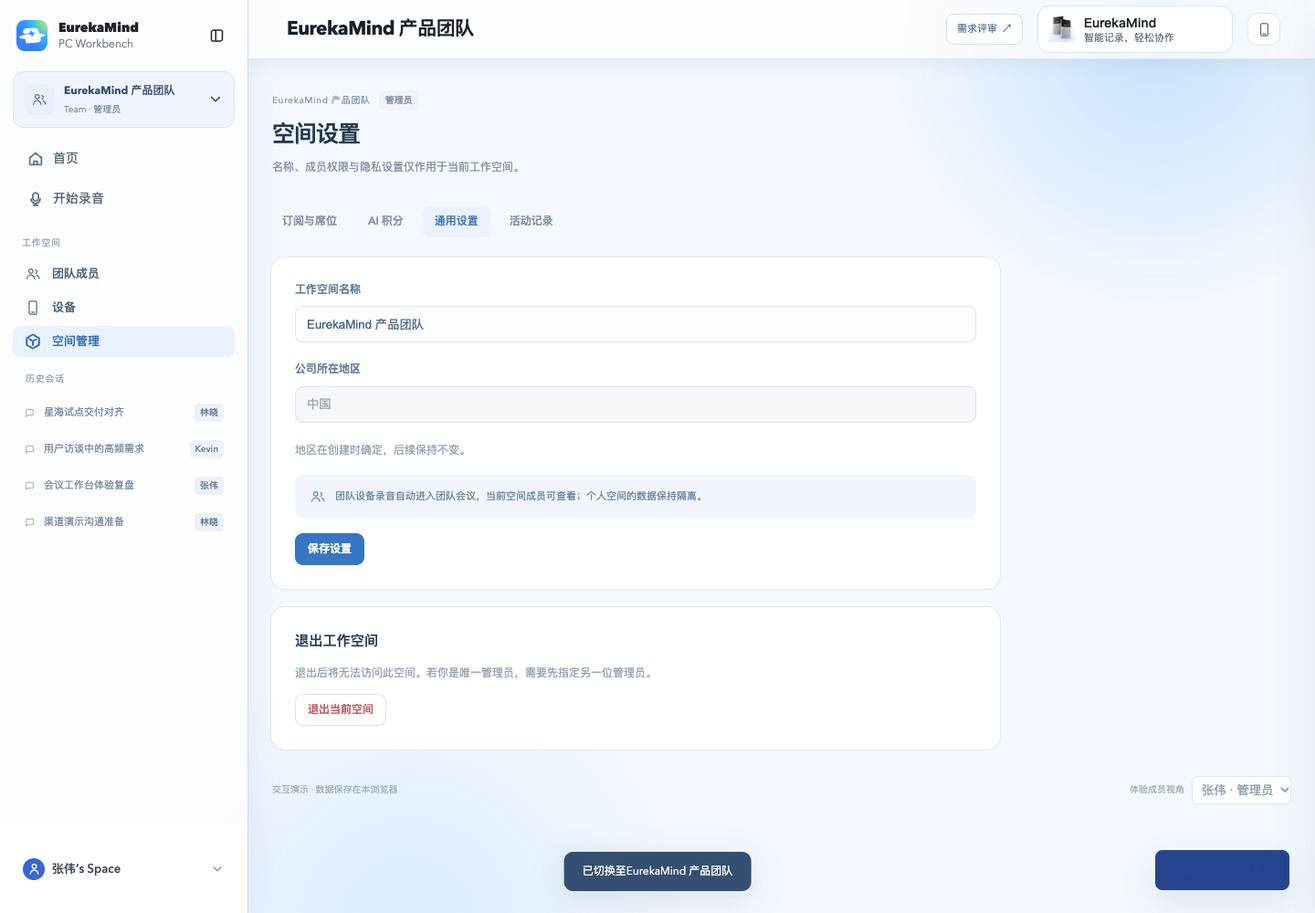
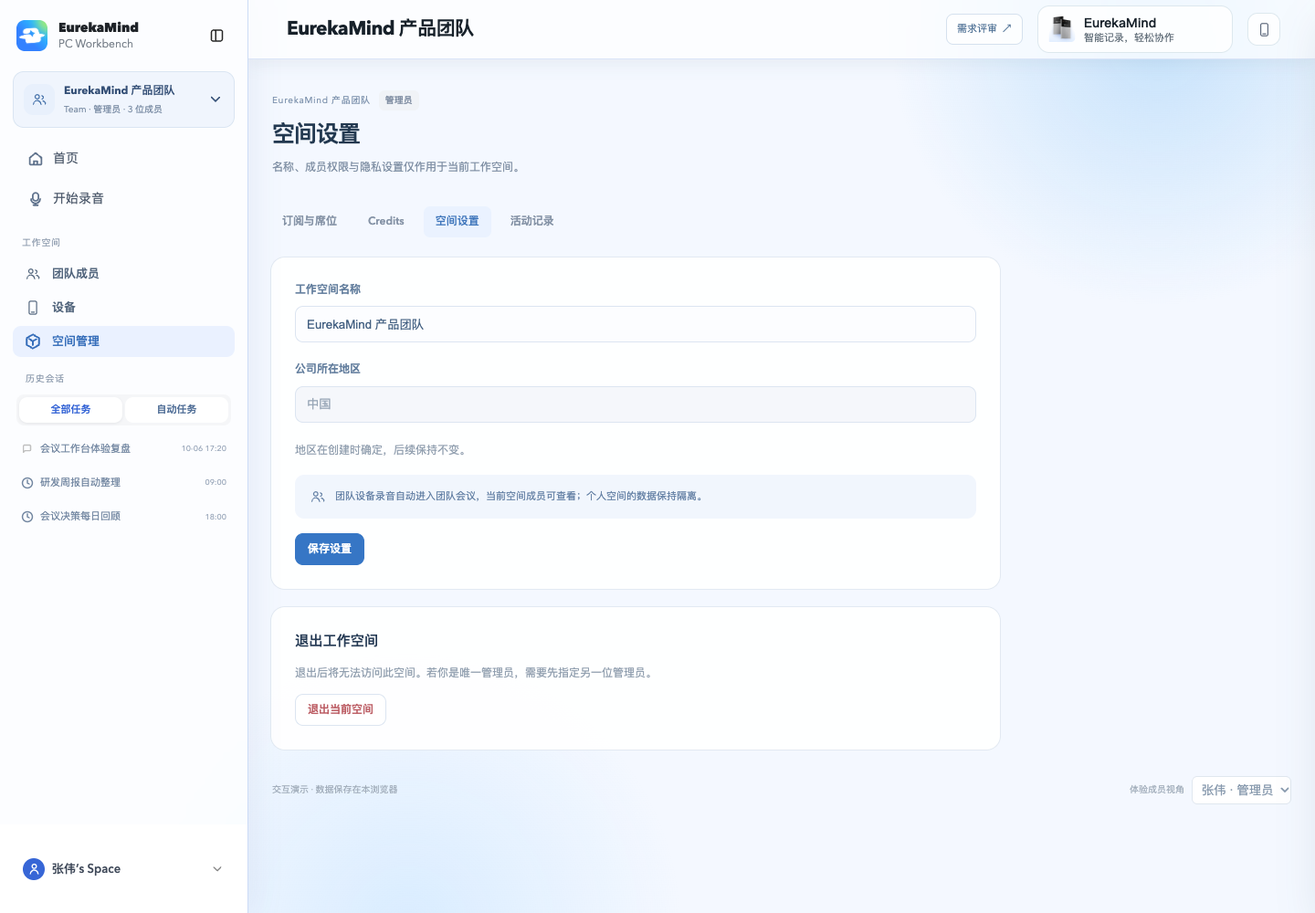
Unify compact personal settings across workspaces

diff --git a/src/prototype/one-to-one-reference/assets/personal-assets.css b/src/prototype/one-to-one-reference/assets/personal-assets.css
@@ -27,7 +27,41 @@ body[data-ws-type="team"] #todos-entry{display:none!important}
 [data-pa-error]{color:#b44c53;background:#fff4f4;border-radius:8px;padding:12px;font-size:13px;line-height:1.7}[data-pa-error][hidden]{display:none}
 .pa-dialog{width:min(650px,calc(100vw - 40px));max-height:85vh;box-sizing:border-box;border:1px solid #dce6f3;border-radius:22px;padding:28px;color:#3e5d7e;box-shadow:0 20px 80px #314b6b30}.pa-dialog::backdrop{background:#1d355442;backdrop-filter:blur(3px)}.pa-dialog header{display:flex;justify-content:space-between;align-items:center;margin-bottom:24px}.pa-dialog h2{font-size:21px;margin:0}.pa-dialog p{line-height:1.8;font-size:14px}.pa-dialog footer{display:flex;justify-content:flex-end;gap:10px;margin-top:26px}.pa-meeting-choices{max-height:48vh;overflow:auto}.pa-meeting-choice{display:flex;align-items:flex-start;gap:12px;padding:16px 0;border-top:1px solid #edf1f7;cursor:pointer}.pa-meeting-choice input{margin-top:4px;accent-color:#387aca}.pa-meeting-choice small{display:block;margin-top:7px;color:#98a7bb;font-size:12px}.pa-meeting-choice summary{color:#6591c5;font-size:12px;margin-top:10px;cursor:pointer}.pa-meeting-choice strong{font-size:14px}
 .pa-archive-wrap #recording-card{min-width:0;width:100%;margin:0}.pa-archive-wrap.pa-with-agent,.pa-workspace.pa-with-agent{display:flex;gap:20px;align-items:flex-start}.pa-archive-wrap.pa-with-agent #recording-card{flex:1;width:0}.pa-agent{flex:0 0 380px;width:380px;min-width:0;border:1px solid #dce6f3;border-radius:20px;background:#fff;position:sticky;top:18px;height:calc(100vh - 155px);display:flex;flex-direction:column;overflow:hidden}.pa-agent header{padding:22px;display:flex;justify-content:space-between;align-items:center;border-bottom:1px solid #e5edf7}.pa-agent h2{font-size:21px;margin:0 0 5px;color:#294459}.pa-agent header small{color:#889ab0;font-size:12px}.pa-agent header .pa-btn{padding:4px 8px;border:0;font-size:23px}.pa-agent-body{flex:1;overflow:auto;padding:22px}.pa-agent-body h3{font-size:18px;line-height:1.5;color:#385673}.pa-agent-body p{font-size:13px;line-height:1.8;color:#8498b1}.pa-agent-body .pa-btn{white-space:normal;text-align:left}.pa-message{background:#edf4ff;border-radius:12px;padding:16px;margin:16px 0;font-size:13px;color:#627f9e;line-height:1.8;white-space:pre-wrap;overflow-wrap:anywhere}.pa-agent form footer{display:flex;gap:10px;align-items:center;justify-content:space-between}.pa-agent form footer small{font-size:11px;color:#9aaabd}#pa-agent-prompt{padding:18px;border-top:1px solid #edf2f7}#pa-prompt{border:1px solid #dce6f3;resize:vertical;border-radius:10px;width:100%;padding:12px;box-sizing:border-box;font:13px/1.7 inherit;min-height:90px;margin-bottom:10px}#pa-agent-form .pa-form-grid{display:block}#pa-agent-form .pa-field{margin-bottom:16px}#pa-agent-form .pa-hint{margin-bottom:14px}.pa-with-agent .pa-detail-grid{grid-template-columns:1fr}.pa-with-agent .pa-page-head{align-items:flex-start;flex-wrap:wrap}.pa-with-agent #thought-toolbar{flex-wrap:wrap}.pa-with-agent .home-meeting-head{flex-wrap:wrap}.pa-with-agent .thought-workspace{grid-template-columns:150px minmax(0,1fr)}.pa-with-agent .thought-file-row{grid-template-columns:minmax(160px,1fr) 65px 130px 45px}.pa-with-agent .thought-file-table-head{grid-template-columns:minmax(160px,1fr) 65px 130px 45px}.thought-entry[data-personal-open]{cursor:pointer}.thought-entry[data-personal-open]:hover{background:#f2f7ff}
-.pa-settings{max-width:1160px;padding:32px 24px;color:#426081}.pa-settings .settings-float-toolbar{display:flex;justify-content:space-between;margin-bottom:30px}.pa-settings .settings-float-toolbar-copy strong{display:block;font-size:30px;color:#29445b}.pa-settings .settings-float-toolbar-copy span{display:block;font-size:14px;color:#8e9fb6;margin-top:10px}.pa-settings .settings-float-section{background:#fff;border:1px solid #dce6f3;border-radius:18px;padding:26px;margin-bottom:20px}.pa-settings .settings-float-head h4{font-size:17px;margin:0 0 8px}.pa-settings .settings-float-head p{color:#91a2b6;font-size:13px;margin:0 0 20px}.pa-settings .settings-float-row,.pa-settings .settings-profile{display:flex;align-items:center;justify-content:space-between;gap:20px;padding:16px 0}.pa-settings .settings-row-copy strong{font-size:14px;display:block}.pa-settings .settings-row-copy span,.pa-settings .settings-profile small{display:block;font-size:12px;color:#91a2b6;margin-top:8px}.pa-settings .settings-language-control{display:flex;gap:12px;align-items:center}.pa-settings select{border:1px solid #dce6f3;border-radius:9px;padding:10px;background:#f9fbff;color:#55779f;min-width:150px}.pa-settings .settings-language-count{display:none}.pa-settings button{cursor:pointer;padding:10px 16px;border:1px solid #dce6f3;border-radius:9px;background:#f9fbff;color:#5279a7}.pa-settings .settings-switch{width:46px;height:26px;padding:3px;border:0;border-radius:18px;background:#c2cddb}.pa-settings .settings-switch[aria-checked=true]{background:#4383d4}.pa-settings .settings-switch i{display:block;width:20px;height:20px;background:white;border-radius:50%;transform:translateX(0)}.pa-settings .settings-switch[aria-checked=true] i{transform:translateX(20px)}.pa-settings .settings-config-panel{padding:20px;border-radius:12px;background:#f4f8ff;display:grid;gap:16px}.pa-settings .settings-config-panel[hidden]{display:none}.pa-settings .settings-config-panel label{display:flex;align-items:center;justify-content:space-between;gap:16px}.pa-settings .settings-usage{padding:18px;background:#f6f9ff;border-radius:12px}.pa-settings .settings-usage-top,.pa-settings .settings-usage-meta{display:flex;justify-content:space-between;font-size:12px;line-height:1.9;color:#8199b4}.pa-settings .settings-avatar{padding:18px;background:#edf3ff;border-radius:12px}.pa-settings .settings-profile>span:nth-child(2){flex:1}.pa-settings .settings-link{color:#397acd;font-size:13px}.pa-settings .pa-check{display:flex;gap:10px;font-size:14px}.pa-settings .settings-config-copy{font-size:12px;color:#90a1b7}
+/* Shared account preferences in Personal and Team; compact workbench density. */
+.pa-settings{max-width:1040px;padding:24px;color:#426081;font-size:13px;line-height:1.5}
+.pa-settings .settings-float{gap:12px}
+.pa-settings .settings-float-toolbar{display:flex;justify-content:space-between;margin:0 0 4px;padding:0}
+.pa-settings .settings-float-toolbar-copy{gap:4px}
+.pa-settings .settings-float-toolbar-copy strong{display:block;font-size:24px;line-height:1.3;color:#29445b}
+.pa-settings .settings-float-toolbar-copy span{display:block;font-size:12px;line-height:1.5;color:#8396af;margin:0}
+.pa-settings .settings-float-section{background:#fff;border:1px solid #dce6f3;border-radius:12px;padding:16px 20px;margin:0}
+.pa-settings .settings-float-head{padding:0 0 10px}
+.pa-settings .settings-float-head h4{font-size:14px;line-height:20px;margin:0 0 3px}
+.pa-settings .settings-float-head p{color:#8498b1;font-size:12px;line-height:18px;margin:0}
+.pa-settings .settings-float-row,.pa-settings .settings-profile{display:flex;align-items:center;justify-content:space-between;gap:12px;padding:10px 0}
+.pa-settings .settings-row-copy{gap:2px}.pa-settings .settings-row-copy strong{font-size:13px;line-height:19px;display:block}
+.pa-settings .settings-row-copy span,.pa-settings .settings-profile small{display:block;font-size:11px;line-height:17px;color:#8498b1;margin:0}
+.pa-settings .settings-language-control{display:flex;gap:8px;align-items:center}
+.pa-settings select{border:1px solid #dce6f3;border-radius:7px;padding:6px 9px;background:#f9fbff;color:#55779f;min-width:140px;min-height:32px;font:inherit;font-size:12px;box-sizing:border-box}
+.pa-settings .settings-language-count{display:none}
+.pa-settings button{cursor:pointer;min-height:30px;padding:5px 10px;border:1px solid #dce6f3;border-radius:7px;background:#f9fbff;color:#5279a7;font-family:inherit;font-size:12px}
+.pa-settings .settings-popover-close{padding:5px;width:30px;height:30px}
+.pa-settings .settings-switch{width:38px;min-height:22px;height:22px;padding:3px;border:0;border-radius:18px;background:#c2cddb;flex-shrink:0}
+.pa-settings .settings-switch[aria-checked=true]{background:#4383d4}
+.pa-settings .settings-switch i{display:block;width:16px;height:16px;background:white;border-radius:50%;transform:translateX(0)}
+.pa-settings .settings-switch[aria-checked=true] i{transform:translateX(16px)}
+.pa-settings .settings-config-panel{padding:12px;border-radius:8px;background:#f4f8ff;display:grid;gap:10px;font-size:12px}
+.pa-settings .settings-config-panel[hidden]{display:none}
+.pa-settings .settings-config-panel label{display:flex;align-items:center;justify-content:space-between;gap:10px}
+.pa-settings .settings-usage{padding:10px 12px;background:#f6f9ff;border-radius:8px;margin-top:10px}
+.pa-settings .settings-usage-top,.pa-settings .settings-usage-meta{display:flex;justify-content:space-between;font-size:11px;line-height:1.6;color:#8199b4}
+.pa-settings .settings-usage-top strong{font-size:12px}.pa-settings .settings-usage-top b{font-size:14px}
+.pa-settings .settings-avatar{padding:0;width:32px;height:32px;flex:0 0 32px;background:#edf3ff;color:#5279a7;box-shadow:none;border-radius:9px}
+.pa-settings .settings-profile>span:nth-child(2){flex:1;min-width:0;overflow-wrap:anywhere}
+.pa-settings .settings-link{color:#397acd;font-size:12px;line-height:28px;flex-shrink:0}
+.pa-settings .pa-check{display:flex;gap:8px;font-size:13px}.pa-settings .settings-config-copy{font-size:11px;color:#8498b1}
+.pa-settings .settings-summary-chip{padding:2px 6px;margin-top:2px!important}
+
 @media(max-width:1350px){.pa-agent{flex-basis:330px;width:330px}.pa-detail-grid{grid-template-columns:minmax(0,1fr) 265px}.pa-page-head h1{font-size:26px}.pa-with-agent .thought-file-table{overflow:auto}.pa-with-agent .thought-file-row,.pa-with-agent .thought-file-table-head{min-width:550px}}
 @media(max-width:1050px){.pa-detail-grid{grid-template-columns:1fr}.pa-origin{position:static}.pa-archive-wrap.pa-with-agent,.pa-workspace.pa-with-agent{flex-direction:column}.pa-agent{position:relative;top:0;flex:none;width:100%;height:680px;max-height:85vh}.pa-archive-wrap.pa-with-agent #recording-card{width:100%}.pa-content{width:100%}.pa-with-agent .pa-agent{order:-1}}
 @media(max-width:650px){.pa-workspace{width:calc(100% - 24px);padding-top:20px}.pa-page-head{flex-direction:column;align-items:flex-start}.pa-page-head h1{font-size:23px}.pa-card{padding:20px 16px}.pa-form-grid{grid-template-columns:1fr}.pa-list-tools{flex-wrap:wrap}.pa-list-row{gap:10px;flex-wrap:wrap}.pa-list-row strong{font-size:14px}.pa-card dl>div{gap:10px}.pa-card dt{flex-basis:68px}.pa-settings .settings-float-row,.pa-settings .settings-profile{flex-wrap:wrap}.pa-settings .settings-config-panel label{flex-wrap:wrap}.pa-dialog{padding:20px}.pa-settings{padding:20px 12px}#thought-toolbar{flex-wrap:wrap}}
@@ -99,3 +133,5 @@ body[data-ws-type="team"] #todos-entry{display:none!important}
 .pa-agent-sources{display:grid;gap:8px;max-height:45dvh;overflow:auto}.pa-agent-sources label{display:flex;align-items:center;gap:9px;border:1px solid #e5edf6;border-radius:10px;padding:12px;font-size:12px;cursor:pointer}.pa-agent-sources small{display:block;color:#8b9ab0;font-size:10px;margin-top:5px}.pa-agent-sources input{accent-color:#3c75bd}
 @media(max-width:1050px){.pa-workspace.pa-with-agent{flex-direction:row}.pa-workspace.pa-with-agent .pa-content{width:100%;flex:1}.pa-workspace.pa-with-agent #pa-agent{position:absolute;top:20px;bottom:16px;right:0;width:min(390px,100%);height:auto;z-index:30;box-shadow:-10px 0 45px #29486c24;order:0}}
 @media(max-height:700px){.pa-agent>header{padding:12px 16px}.pa-agent-body{padding:16px}#pa-agent-prompt.pa-composer{margin:10px;padding:10px}.pa-agent #pa-prompt{height:48px}}
+
+@media(max-width:650px){.pa-settings .settings-float-section{padding:14px}.pa-settings .settings-float-toolbar-copy strong{font-size:22px}.pa-settings .settings-float-row{flex-direction:row;flex-wrap:wrap}.pa-settings .settings-language-control{width:auto;max-width:100%}.pa-settings select{max-width:100%}.pa-settings .settings-config-panel label{min-width:0}.pa-settings .settings-config-panel select{flex:1;min-width:120px}.pa-settings .settings-voiceprint-row{justify-content:flex-start}}

diff --git a/src/prototype/one-to-one-reference/team-only-app.html b/src/prototype/one-to-one-reference/team-only-app.html
@@ -5084,10 +5084,10 @@
       `;
       document.head.appendChild(style);
       const profileEntry = document.querySelector('[data-profile-action="profile"]');
-      if (profileEntry && !document.querySelector('[data-profile-action="settings"]')) profileEntry.insertAdjacentHTML("afterend", '<button class="user-menu-item" data-profile-action="settings"><svg class="icon"><use href="#ico-task"/></svg>设置</button>');
+      if (profileEntry && !document.querySelector('[data-profile-action="settings"]')) profileEntry.insertAdjacentHTML("afterend", '<button class="user-menu-item" data-profile-action="settings"><svg class="icon"><use href="#ico-task"/></svg>个人设置</button>');
       const openUserSettings = () => {
         const settingsBody = `<div class="settings-float">
-          <header class="settings-float-toolbar"><div class="settings-float-toolbar-copy"><strong>设置</strong><span>快速调整工作台偏好</span></div><button class="settings-popover-close" type="button" data-settings-close aria-label="关闭设置"><svg class="icon"><use href="#ico-x"/></svg></button></header>
+          <header class="settings-float-toolbar"><div class="settings-float-toolbar-copy"><strong>个人设置</strong><span>账户、语言与录音偏好</span></div><button class="settings-popover-close" type="button" data-settings-close aria-label="返回当前空间首页"><svg class="icon"><use href="#ico-x"/></svg></button></header>
           <section class="settings-float-section"><div class="settings-float-head"><h4>账户</h4><p>账号与套餐信息</p></div><div class="settings-profile"><span class="settings-avatar">Z</span><span><strong>zw08250727@gmail.com</strong><small>免费版 · 个人工作台</small></span><button class="settings-logout" type="button" data-settings-action="logout">退出登录</button></div><div class="settings-usage"><div class="settings-usage-top"><div><strong>转写时长</strong><div class="settings-usage-copy">剩余 99999 分钟，共 99999 分钟</div></div><b>0%</b></div><div class="settings-progress"><i></i></div><div class="settings-usage-meta"><span>已使用 0 分钟</span><span>剩余 99999 分钟</span></div></div></section>
           <section class="settings-float-section"><div class="settings-float-head"><h4>AI 摘要语言</h4><p>设置语音识别与摘要输出语言</p></div><div class="settings-float-row"><div class="settings-row-copy"><strong>语音识别</strong><span>默认语音识别语言</span></div><div class="settings-language-control"><span class="settings-language-count">18</span><select class="settings-language-select" data-settings-language="asr"><option value="en">英语</option><option value="zh-Hans">简体中文</option><option value="zh-Hant">繁体中文</option></select></div></div><div class="settings-float-row"><div class="settings-row-copy"><strong>纪要与翻译</strong><span>纪要输出与翻译目标语言</span></div><div class="settings-language-control"><span class="settings-language-count">156</span><select class="settings-language-select" data-settings-language="notes"><option value="detected">检测语言</option><option value="en">英语</option><option value="zh-Hans">简体中文</option></select></div></div></section>
           <section class="settings-float-section"><div class="settings-float-head"><h4>自动摘要</h4><p>录音与上传文件的默认摘要设置</p></div><div class="settings-float-row"><div class="settings-row-copy"><strong>自动生成摘要</strong><span data-settings-summary-hint>新录音默认使用此摘要设置</span><span class="settings-summary-chip" data-settings-summary-copy>尚未设置默认偏好</span></div><div class="settings-language-control"><button class="settings-configure" type="button" data-settings-action="configure">配置</button><button class="settings-switch" type="button" role="switch" aria-checked="true" data-settings-action="toggle-summary"><i></i></button></div></div><div class="settings-config-panel" data-settings-config hidden><label>摘要语言<select data-settings-summary-language><option value="detected">检测语言</option><option value="en">英语</option><option value="zh-Hans">简体中文</option></select></label><label>详细程度<select data-settings-summary-detail><option>标准</option><option>精简</option><option>详细</option></select></label><button class="settings-save" type="button" data-settings-action="save-summary">保存默认设置</button></div></section>
@@ -5098,11 +5098,11 @@
         drawer.innerHTML = settingsBody;
         closeUserMenu();
         showMainView("personal-settings", {silent:true});
-        document.querySelector("#page-crumb").textContent="Settings";
+        document.querySelector("#page-crumb").textContent="个人设置";
         document.querySelector("#user-card")?.setAttribute("aria-expanded", "false");
         const settingsConfig = drawer?.querySelector("[data-settings-config]");
         settingsConfig?.querySelector("label")?.insertAdjacentHTML("afterend", '<label>摘要模板<select data-settings-summary-template><option value="meeting">会议纪要</option><option value="brief">简洁摘要</option><option value="action">行动项优先</option></select></label><label class="settings-voiceprint-row">声纹识别<span class="settings-config-copy">在支持声纹时区分不同说话人。</span><button class="settings-switch" type="button" role="switch" aria-checked="false" data-settings-voiceprint><i></i></button></label>');
-        drawer?.querySelector("[data-settings-close]")?.addEventListener("click", () => showMainView("home", {silent:true}));
+        drawer?.querySelector("[data-settings-close]")?.addEventListener("click", () => { if(document.body.dataset.wsType === "team") window.EurekaSpaces.open("overview"); else showMainView("home", {silent:true}); });
         drawer?.querySelectorAll("[data-settings-language]").forEach((select) => select.addEventListener("change", () => { localStorage.setItem(`eurekamind:settings:${select.dataset.settingsLanguage}`, select.value); showToast("语言设置已保存"); }));
         drawer?.querySelector('[data-settings-action="logout"]')?.addEventListener("click", () => showToast("原型演示：退出登录需要二次确认"));
         drawer?.querySelector('[data-settings-action="configure"]')?.addEventListener("click", () => { const panel = drawer.querySelector("[data-settings-config]"); if (panel) panel.hidden = !panel.hidden; });
@@ -5335,12 +5335,12 @@
   <link rel="stylesheet" href="assets/workspace-ui.css?v=14" />
   <script src="assets/workspace-model.js?v=12"></script>
   <script src="assets/personal-subscription-model.js?v=1"></script>
-  <script src="assets/workspace-ui.js?v=19"></script>
+  <script src="assets/workspace-ui.js?v=20"></script>
 <link rel="stylesheet" href="assets/recording-upload.css?v=1">
 <script src="assets/recording-upload.js?v=1"></script>
-<link rel="stylesheet" href="assets/personal-assets.css?v=3">
+<link rel="stylesheet" href="assets/personal-assets.css?v=4">
 <script src="assets/personal-assets-model.js?v=2"></script>
-<script src="assets/personal-assets-ui.js?v=6"></script>
+<script src="assets/personal-assets-ui.js?v=7"></script>
 <link rel="stylesheet" href="assets/thoughts.css?v=2">
 <script src="assets/thoughts-model.js?v=1"></script>
 <script src="assets/thoughts-ui.js?v=2"></script>

diff --git a/src/prototype/one-to-one-reference/assets/workspace-ui.js b/src/prototype/one-to-one-reference/assets/workspace-ui.js
@@ -56,7 +56,7 @@
   function closeMenu(){menu.hidden=true;switcher.setAttribute('aria-expanded','false');$('#user-card')?.setAttribute('aria-expanded','false');}
   function openMenu(anchor){
     if(!menu.hidden&&menuAnchor===anchor){closeMenu();return;}closeMenu();menuAnchor=anchor;const accountMenu=anchor.id==='user-card';menu.setAttribute('aria-label',accountMenu?'我的账户与工作空间':'切换工作空间');menu.dataset.mode=accountMenu?'account':'spaces';$('#user-menu')?.classList.remove('show');
-    menu.innerHTML=`<div class="ws-menu-head"><span class="ws-space-avatar">${icon(w().type==='team'?'users':'user')}</span><div><strong>${esc(w().name)}</strong><small>${esc(data.account.email)}</small></div></div><div class="ws-menu-caption">工作空间</div>${data.spaces.filter(s=>M.member(s)).map(s=>btn('switch',`<span class="ws-mini-avatar">${s.type==='personal'?'P':esc(s.name[0])}</span><span>${esc(s.name)}<small>${s.type==='personal'?'个人订阅独立计费':(M.admin(s)?'管理员':'成员')+' · '+memberCount(s)+' 位成员 · Team Unlimited'}</small></span><b>${s.id===data.activeId?'✓':''}</b>`,'ws-menu-space',s.id)).join('')}<div class="ws-menu-divider"></div>${btn('plan',icon('plus')+'创建团队工作空间','ws-menu-item')}${btn('invites',icon('users')+`工作空间邀请 ${badge(data.invitations.filter(i=>i.status==='pending').length)}`,'ws-menu-item')}${w().type==='team'&&isAdmin()?btn('invite',icon('users')+'邀请空间成员','ws-menu-item'):''}${accountMenu?`<div class="ws-menu-divider"></div>${btn('page',icon('mic')+'会议录音','ws-menu-item','files')}${btn('page',icon('phone')+'设备与同步','ws-menu-item','devices')}${btn('page',icon('task')+(w().type==='personal'?'个人订阅':'订阅与席位'),'ws-menu-item','billing')}${btn('settings',icon('edit')+'设置','ws-menu-item')}${btn('logout',icon('collapse')+'退出登录','ws-menu-item')}`:''}<p class="ws-menu-note">同一账号 · 各空间的数据与订阅独立</p>`;
+    menu.innerHTML=`<div class="ws-menu-head"><span class="ws-space-avatar">${icon(w().type==='team'?'users':'user')}</span><div><strong>${esc(w().name)}</strong><small>${esc(data.account.email)}</small></div></div><div class="ws-menu-caption">工作空间</div>${data.spaces.filter(s=>M.member(s)).map(s=>btn('switch',`<span class="ws-mini-avatar">${s.type==='personal'?'P':esc(s.name[0])}</span><span>${esc(s.name)}<small>${s.type==='personal'?'个人订阅独立计费':(M.admin(s)?'管理员':'成员')+' · '+memberCount(s)+' 位成员 · Team Unlimited'}</small></span><b>${s.id===data.activeId?'✓':''}</b>`,'ws-menu-space',s.id)).join('')}<div class="ws-menu-divider"></div>${btn('plan',icon('plus')+'创建团队工作空间','ws-menu-item')}${btn('invites',icon('users')+`工作空间邀请 ${badge(data.invitations.filter(i=>i.status==='pending').length)}`,'ws-menu-item')}${w().type==='team'&&isAdmin()?btn('invite',icon('users')+'邀请空间成员','ws-menu-item'):''}${accountMenu?`<div class="ws-menu-divider"></div>${btn('page',icon('mic')+'会议录音','ws-menu-item','files')}${btn('page',icon('phone')+'设备与同步','ws-menu-item','devices')}${btn('page',icon('task')+(w().type==='personal'?'个人订阅':'订阅与席位'),'ws-menu-item','billing')}${btn('settings',icon('edit')+'个人设置','ws-menu-item')}${btn('logout',icon('collapse')+'退出登录','ws-menu-item')}`:''}<p class="ws-menu-note">同一账号 · 各空间的数据与订阅独立</p>`;
     menu.hidden=false;anchor.setAttribute('aria-expanded','true');const rect=anchor.getBoundingClientRect();menu.style.left=Math.min(Math.max(12,rect.left),innerWidth-Math.min(338,innerWidth-24)-12)+'px';menu.style.top='';menu.style.bottom='';if(rect.top>innerHeight/2)menu.style.bottom=(innerHeight-rect.top+8)+'px';else menu.style.top=Math.min(rect.bottom+8,innerHeight-200)+'px';
   }
   function switchSpace(uid){
@@ -75,7 +75,7 @@
   }
   function fit(){if(root.hidden)return;root.style.setProperty('--ws-top',`${root.getBoundingClientRect().top+$('.main').scrollTop}px`);}
   const heading=(title,subtitle,actions='')=>`<header class="ws-page-head"><div><div class="ws-eyebrow">${esc(w().name)} ${w().type==='team'?badge(isAdmin()?'管理员':'成员'):badge('Personal')}</div><h1>${title}</h1><p>${subtitle}</p></div><div class="ws-actions">${actions}</div></header>`;
-  const managementTabs=()=>`<nav class="ws-tabs" aria-label="空间管理">${[['billing','订阅与席位'],['credits','Credits'],['settings','通用设置'],['audit','活动记录']].map(([k,v])=>btn('page',v,page===k?'active':'',k)).join('')}</nav>`;
+  const managementTabs=()=>`<nav class="ws-tabs" aria-label="空间管理">${[['billing','订阅与席位'],['credits','Credits'],['settings','空间设置'],['audit','活动记录']].map(([k,v])=>btn('page',v,page===k?'active':'',k)).join('')}</nav>`;
   const filesRows=files=>files.map(f=>`<tr><td><button class="ws-file-link" data-ws-action="file" data-value="${esc(f.id)}">${icon('file')}<span><strong>${esc(f.title)}</strong><small>${esc(f.source)} · ${f.duration} 分钟</small></span></button></td><td>${esc(userName(f.owner))}${f.owner===actor?'（我）':''}</td><td>${badge(f.shared.length?'已分享':'仅自己',f.shared.length?'blue':'')}</td><td>${date(f.created)}</td><td>${btn('export',icon('download'),'ws-icon-button',f.id,'aria-label="导出 '+esc(f.title)+'"')}</td></tr>`).join('');
   const fileTable=files=>`<div class="ws-table-scroll"><table class="ws-table"><thead><tr><th>文件名</th><th>所有者</th><th>可见范围</th><th>录音时间</th><th>导出</th></tr></thead><tbody>${filesRows(files)}</tbody></table></div>`;
   function recordingList() {
@@ -238,7 +238,7 @@
     if(name==='join'){mutate(()=>M.acceptInvite(data,value));dialog.close();switchSpace(data.activeId);return;}
     if(name==='decline-invite'){mutate(()=>{const i=data.invitations.find(i=>i.id===value);if(i)i.status='declined';});return action('invites');}
     if(name==='logout'){closeMenu();confirm('退出登录？','工作空间数据会保留在当前浏览器，重新登录后可继续体验。',()=>location.replace(new URL('../auth-shell.html',location.href).href));return;}
-    if(name==='settings'){closeMenu();if(w().type==='personal'){window.openUserSettings?.();const email=$('.settings-profile strong');if(email)email.textContent=data.account.email;const plan=$('.settings-profile small');if(plan)plan.textContent='Pro · 个人工作空间';return;}return show(isAdmin()?'settings':'billing');}
+    if(name==='settings'){closeMenu();window.openUserSettings?.();$$('.active',nav).forEach(el=>{el.classList.remove('active');el.removeAttribute('aria-current');});return;}
     if(name==='recycle'){filter=filter==='trash'?'all':'trash';listPage=1;query='';return show('overview');}
     if(name==='sort'){sortAsc=sortKey===value?!sortAsc:false;sortKey=value;return render();}
     if(name==='list-prev'||name==='list-next'){listPage+=name==='list-prev'?-1:1;return render();}

diff --git a/tests/e2e/account-settings.spec.ts b/tests/e2e/account-settings.spec.ts
@@ -1,0 +1,16 @@
+import {test,expect,Page} from '@playwright/test';
+test.use({channel:process.env.PLAYWRIGHT_CHANNEL||undefined,viewport:{width:1440,height:1000}});
+const url='/prototype/one-to-one-reference/team-only-app.html?edition=personal&personal=1';
+async function settings(page:Page){await page.locator('#user-card').click();await expect(page.locator('#ws-menu [data-ws-action=settings]')).toHaveText('个人设置');await page.locator('#ws-menu [data-ws-action=settings]').click();await expect(page.locator('#personal-settings')).toBeVisible();await expect(page.locator('#ws-view')).toBeHidden();await expect(page.locator('#page-crumb')).toHaveText('个人设置');}
+async function switchTo(page:Page,id:string){await page.locator('#ws-switcher').click();await page.locator(`#ws-menu [data-ws-action=switch][data-value=${id}]`).click();}
+async function capture(page:Page,name:string){if(process.env.PRD_CAPTURE){await expect(page.locator('#ws-toast')).not.toBeVisible();await expect(page.locator('#toast')).not.toBeVisible();await page.screenshot({path:`src/prototype/prd/images/${name}.png`});}}
+test('account preferences share one functional page across Personal, Team admin and member',async({page})=>{
+ const errors:string[]=[];page.on('pageerror',e=>errors.push(e.message));await page.goto(url);await settings(page);await capture(page,'personal-settings');await page.locator('[data-settings-language=asr]').selectOption('zh-Hans');await page.locator('[data-settings-action=toggle-summary]').click();await page.locator('[data-settings-action=configure]').click();await page.locator('[data-settings-summary-template]').selectOption('action');await page.locator('[data-settings-voiceprint]').click();await page.locator('[data-settings-action=save-summary]').click();
+ await switchTo(page,'team-eureka');await page.locator('#ws-team-nav [data-value=billing]').click();await page.locator('.ws-tabs [data-value=settings]').click();await expect(page.locator('.ws-tabs')).toContainText('空间设置');await expect(page.locator('.ws-tabs')).not.toContainText('通用设置');await expect(page.locator('#ws-view h1')).toHaveText('空间设置');await capture(page,'team-settings');const name=await page.locator('[data-ws-form=settings] [name=name]').inputValue();
+ await settings(page);await expect(page.locator('#ws-switcher')).toContainText('EurekaMind 产品团队');await expect(page.locator('[data-settings-language=asr]')).toHaveValue('zh-Hans');await expect(page.locator('[data-settings-action=toggle-summary]')).toHaveAttribute('aria-checked','false');await expect(page.locator('#personal-settings')).not.toContainText('工作空间名称');await capture(page,'team-personal-settings');await page.locator('[data-settings-action=configure]').click();await expect(page.locator('[data-settings-summary-template]')).toHaveValue('action');await expect(page.locator('[data-settings-voiceprint]')).toHaveAttribute('aria-checked','true');await page.locator('[data-settings-language=asr]').selectOption('en');await page.locator('[data-settings-close]').click();await expect(page.locator('#ws-view')).toBeVisible();await expect(page.locator('#personal-settings')).toBeHidden();await expect(page.locator('#ws-view')).toContainText('团队会议');
+ await page.locator('#ws-team-nav [data-value=billing]').click();await page.locator('.ws-tabs [data-value=settings]').click();await expect(page.locator('[data-ws-form=settings] [name=name]')).toHaveValue(name);
+ await switchTo(page,'team-design');await expect(page.locator('#ws-team-nav')).not.toContainText('空间管理');await settings(page);await expect(page.locator('[data-settings-language=asr]')).toHaveValue('en');await page.locator('[data-settings-language=notes]').selectOption('zh-Hans');await page.reload();await settings(page);await expect(page.locator('[data-settings-language=notes]')).toHaveValue('zh-Hans');await page.locator('[data-settings-close]').click();await expect(page.locator('#ws-view')).toBeVisible();await expect(page.locator('#ws-switcher')).toContainText('设计共创空间');await switchTo(page,'personal');await settings(page);await expect(page.locator('[data-settings-language=notes]')).toHaveValue('zh-Hans');await page.locator('[data-settings-close]').click();await expect(page.locator('#today-assets-grid')).toBeVisible();expect(errors).toEqual([]);
+});
+test('compact preferences remain usable at desktop and phone widths in either workspace',async({page})=>{
+ await page.goto(url);for(const space of ['personal','team-eureka']){await switchTo(page,space);await settings(page);await page.locator('[data-settings-action=configure]').click();for(const width of [1440,1024,390]){await page.setViewportSize({width,height:1000});expect(await page.evaluate(()=>document.documentElement.scrollWidth)).toBeLessThanOrEqual(width+1);const panel=page.locator('#personal-settings');expect(await panel.evaluate(el=>el.scrollWidth<=el.clientWidth)).toBeTruthy();await page.locator('[data-settings-summary-detail]').selectOption('精简');await expect(page.locator('[data-settings-summary-detail]')).toHaveValue('精简');await page.locator('[data-settings-close]').scrollIntoViewIfNeeded();await expect(page.locator('[data-settings-close]')).toBeInViewport();}await page.setViewportSize({width:1440,height:1000});}
+});

diff --git a/src/prototype/one-to-one-reference/assets/personal-assets-ui.js b/src/prototype/one-to-one-reference/assets/personal-assets-ui.js
@@ -126,8 +126,8 @@
   function setupSettings(){const page=$('#personal-settings');if(!page)return;const prefs=repo.snapshot().settings;const account=window.WorkspaceModel.load(localStorage);$('.settings-profile strong',page).textContent=account.account.email;$('.settings-profile small',page).textContent=(window.PersonalSubscriptionModel?.current(window.WorkspaceModel.get(account,'personal')).plan||'标准版')+' · 个人工作空间';
     const sub=window.PersonalSubscriptionModel.current(window.WorkspaceModel.get(account,'personal'));
     $('.settings-usage',page).innerHTML=`<div class="settings-usage-top"><strong>每月转写时长</strong><b>${sub.minutes.toLocaleString()} 分钟</b></div><div class="settings-usage-meta"><span>已使用 0 分钟</span><span>剩余 ${sub.minutes.toLocaleString()} 分钟</span></div>`;
-    $('.settings-float-toolbar-copy strong',page).textContent='Settings';$('.settings-float-toolbar-copy span',page).textContent='账户、语言与录音偏好';
-    $('[data-settings-close]',page).setAttribute('aria-label','返回首页');
+    $('.settings-float-toolbar-copy strong',page).textContent='个人设置';$('.settings-float-toolbar-copy span',page).textContent='账户、语言与录音偏好';
+    $('[data-settings-close]',page).setAttribute('aria-label','返回当前空间首页');
     const attrs=['language','summary-language','summary-detail','summary-template'];
     for(const attr of attrs)$$(`[data-settings-${attr}]`,page).forEach(el=>{const key=attr==='language'?el.dataset.settingsLanguage:attr;let val=prefs[key];if(val===undefined&&attr==='language')val=localStorage.getItem('eurekamind:settings:'+key);if(val!==undefined&&val!==null)el.value=val;el.addEventListener('change',event=>{event.stopImmediatePropagation();try{repo.settings({[key]:el.value});showToast('偏好已保存');}catch(e){showToast(e.message);}},{capture:true});});
     for(const [sel,key,def] of [['[data-settings-action="toggle-summary"]','autoSummary',true],['[data-settings-voiceprint]','voiceprint',false]]){const el=$(sel,page);el.setAttribute('aria-checked',String(prefs[key]??def));el.setAttribute('aria-label',key==='autoSummary'?'自动生成摘要':'声纹识别');el.addEventListener('click',()=>{try{repo.settings({[key]:el.getAttribute('aria-checked')==='true'});}catch(e){el.setAttribute('aria-checked',String(prefs[key]??def));showToast(e.message);}});}

diff --git a/README.md b/README.md
@@ -80,7 +80,7 @@ EurekaMind 独立采用 Team Credits 共享池：所有成员的 Agent 会话及
 
 ## 个人日程与待办、订阅（2026-10-07）
 
-个人侧栏「日程与待办」位于联系人上方，与首页、全部闪念共用记录。日、周、月支持同一时刻的两类条目、跨日显示、日期跳转、详情与编辑。新建使用轻量弹窗，保存后回到日历；日 / 周 / 月均有行内编辑入口，直接弹窗修改；未保存退出有保护。日历不提供搜索和状态筛选。右侧 Ask Agent 采用共享图标，支持当前日期范围的本地分析、来源跳转，以及确认草稿后创建日程或待办；桌面并排并可拖宽，窄屏纵向适配。个人 Settings 移除日程与待办提醒模块，单条记录仍保存提醒字段。
+个人侧栏「日程与待办」位于联系人上方，与首页、全部闪念共用记录。日、周、月支持同一时刻的两类条目、跨日显示、日期跳转、详情与编辑。新建使用轻量弹窗，保存后回到日历；日 / 周 / 月均有行内编辑入口，直接弹窗修改；未保存退出有保护。日历不提供搜索和状态筛选。右侧 Ask Agent 采用共享图标，支持当前日期范围的本地分析、来源跳转，以及确认草稿后创建日程或待办；桌面并排并可拖宽，窄屏纵向适配。个人设置移除日程与待办提醒模块，单条记录仍保存提醒字段。
 
 个人订阅按移动端参考演示标准版 400 分钟、Pro 月付 $17.99 / 年付 $99.99；Pro 每月 5,000 Credits 与 99,999 分钟。订单支持模拟成功、失败重试、取消、刷新续付、下载 USD 账单、取消自动续费和本浏览器恢复购买。付款成功才更新个人权益且一次入账，不改 Team。首期 Credits 可验证到账；后续月度刷新与真实自动扣款需后端服务。切换月/年套餐按全额重新起算演示，正式差价规则待确认。
 
@@ -93,3 +93,5 @@ EurekaMind 独立采用 Team Credits 共享池：所有成员的 Agent 会话及
 全部闪念采用跨月份的单条记录索引，按记录时间分组，提供正文/金额搜索、分类、日期范围、排序和加载更多。真实记录计数取代静态月度文件数量。仅保留日程、待办、灵感、记账、其他五个类型 tab，按此顺序排列。灵感、记账、其他可通过轻量弹窗查看和编辑；原始捕获保留，保存后同步首页与详情，支持未保存保护、存储失败回滚及跨标签冲突检测。记录保存在 `eureka:thoughts:v1`，仅限当前浏览器个人空间；记账暂只支持人民币，收入不计入首页今日支出。
 
 日程与待办继续读取 `PersonalAssets` 的同一记录，闪念中显示摘要、来源和业务时间，点击条目弹窗查看，行内编辑直接弹窗，只有「详情」进入原完整详情；返回保留筛选。待办可在行首直接勾选完成 / 重新打开。闪念工具栏撤去新建日程，「记录闪念」打开下载 App / 购买设备引导弹窗，另保留跳转日历入口；Ask Agent 引用当前筛选记录，沿用本地模拟边界。测试：`thoughts-model.cjs`、`thoughts.spec.ts`。
+
+个人版与团队版的「我的 → 个人设置」共用账户、语言、自动摘要与声纹功能页，使用紧凑字号和间距。偏好随同一账号保留，团队普通成员也可修改；关闭返回当前空间首页。空间管理的「通用设置」改为「空间设置」，继续仅管理员管理当前团队属性。
